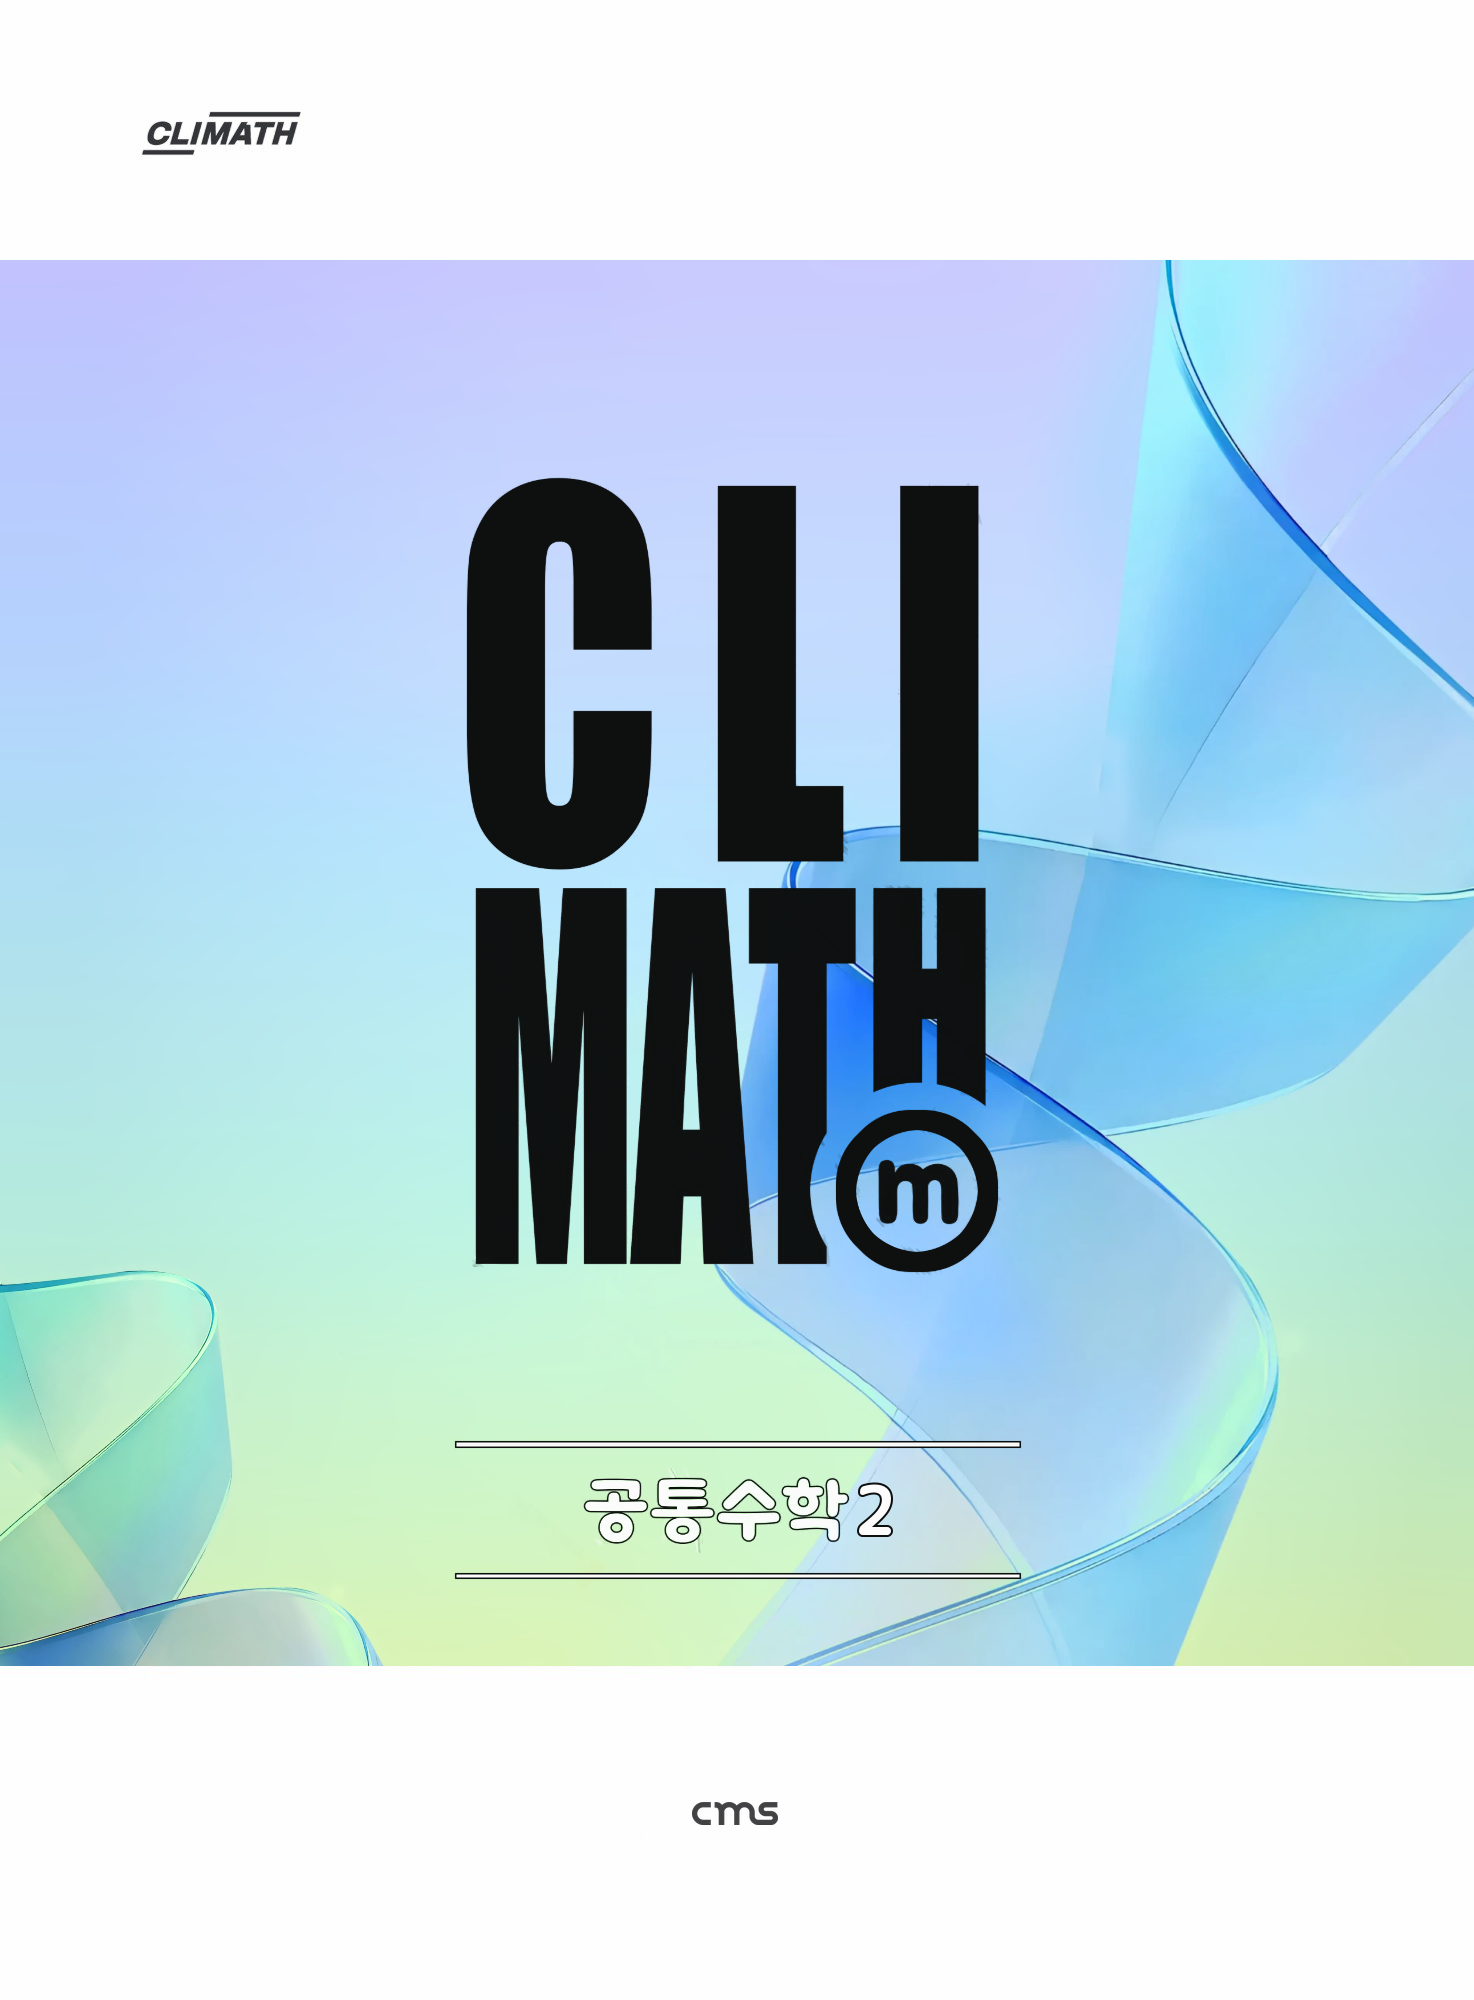
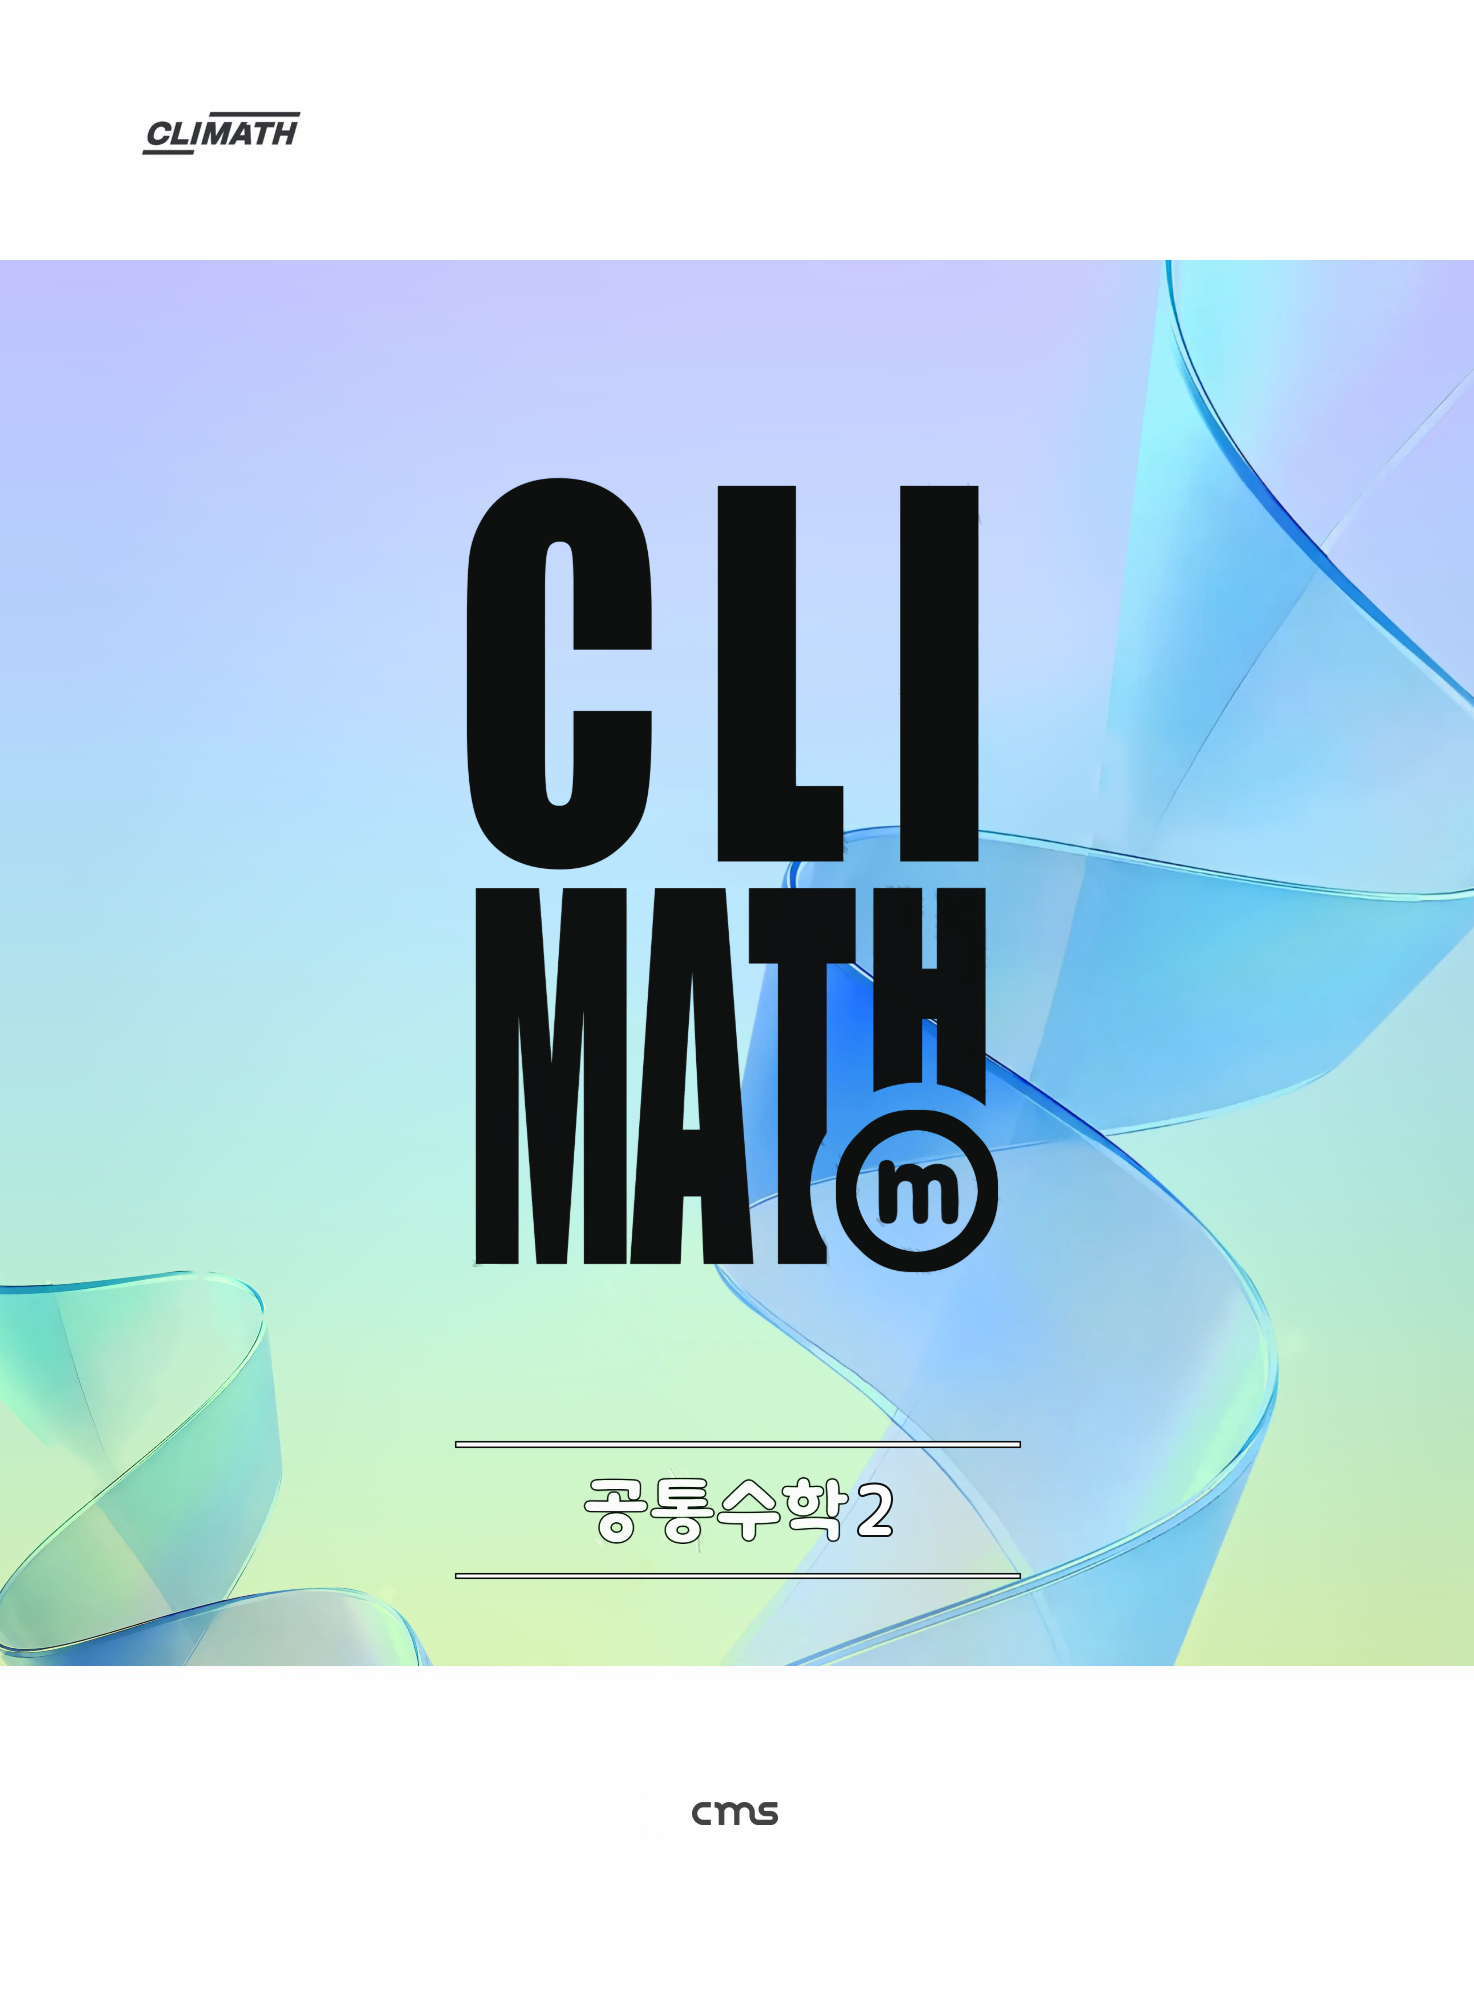
CLIMATH(m) 공통수학2 앞표지: 작은 리본 살짝 오른쪽(+50px), 떨어진 가는 선 지움
Claude-Session: https://claude.ai/code/session_014WGsHSxW1TsHk3SpmxydRw

Changed region(s): [[0.0, 0.62, 0.3121, 0.837]]

diff --git a/유형문제집/도구/cover/make_bg_c2.py b/유형문제집/도구/cover/make_bg_c2.py
@@ -117,6 +117,15 @@ print("펼친 띠", wrap.shape, "큰 리본 오른쪽으로", SHIFT, "px")
 # 큰 리본: 오른쪽으로 150px(그대로). 작은 리본: 시안 B(0.58배·50°, 뒤집지 않음)를 앞표지 왼쪽 아래 구석에 — 앞표지 안에서 보이게.
 Df = np.zeros((BH, BW, 3), np.float32)
 Df[:, max(0, -st):max(0, -st) + srcD.shape[1]] = srcD[:, :BW - max(0, -st)]
-place(Df, RIB, **variants["B"])
+# 2026-11-19 사용자 '왼쪽 작은 것도 아주 살짝 오른쪽으로, 그래픽이 끊긴 부분이 없도록': 50px 오른쪽(cx 120 → 170).
+# 오른쪽으로 옮기면 리본 위쪽의 가는 실 같은 선(리본과 떨어진 유리 테두리 한 가닥)이 왼쪽 위로 삐져나와 끊긴 듯 보여서, 작은 리본에서는 그 가는 선을 지움
+# (리본 부분 마스크를 25px로 열어(opening) 굵은 몸통만 남기고 부드럽게).
+rm = (np.abs(RIB).sum(axis=2) > 6).astype(np.uint8) * 255
+body = cv2.morphologyEx(rm, cv2.MORPH_OPEN, np.ones((25, 25), np.uint8))
+body = cv2.dilate(body, np.ones((9, 9), np.uint8))
+body = cv2.GaussianBlur(body.astype(np.float32) / 255.0, (0, 0), 3)
+RIB_SMALL = RIB * body[..., None]
+vB = dict(variants["B"]); vB["cx"] = 170
+place(Df, RIB_SMALL, **vB)
 Image.fromarray((fb + Df).clip(0, 255).astype(np.uint8)).save(os.path.join(outdir, "front_final.png"))
 print("앞표지 확정 바탕: 큰 리본 +150px, 작은 리본 시안 B")
